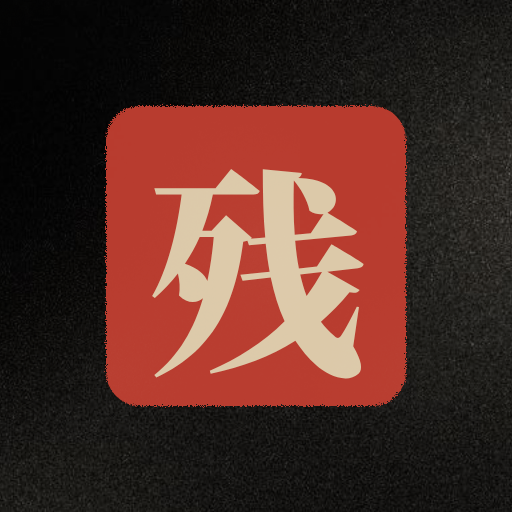
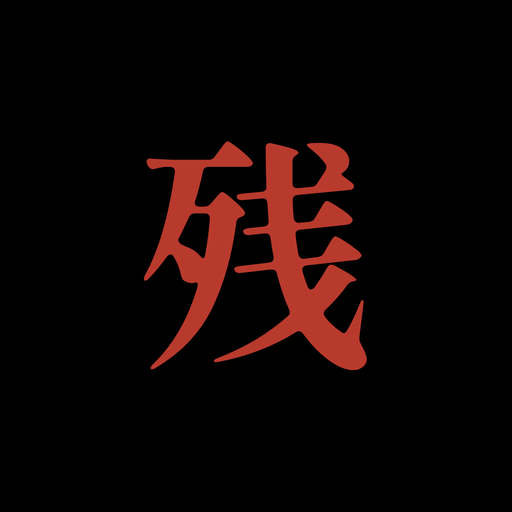
cambios

diff --git a/index.html b/index.html
@@ -11,8 +11,8 @@
 <meta name="referrer" content="no-referrer">
 <meta http-equiv="Content-Security-Policy" content="default-src 'self'; script-src 'self' 'unsafe-inline'; style-src 'self' 'unsafe-inline'; font-src 'self' data:; img-src 'self' data: blob:; connect-src 'self' https://script.google.com https://script.googleusercontent.com; worker-src 'self'; manifest-src 'self'; base-uri 'none'; form-action 'none'; object-src 'none'">
 <link rel="manifest" href="manifest.json">
-<link rel="apple-touch-icon" href="icono.png">
-<link rel="icon" href="icono.png">
+<link rel="apple-touch-icon" href="icono.png?v=2">
+<link rel="icon" href="icono.png?v=2">
 <title>Finanzas de Jaime</title>
 <script>try { var p = localStorage.getItem('fj_paleta'); if (['sumi','ai','matcha','sakura','momiji','neon'].indexOf(p) >= 0) document.documentElement.dataset.paleta = p; } catch (e) {}</script>
 <style>
@@ -2468,7 +2468,7 @@ html.discreto :is(#pvVal, #pvSub b) { filter: blur(7px); }
   // ---------- Actualización automática ----------
   // El ícono de inicio del iPhone guarda su propia copia de la página. Al abrir la app se compara esta versión
   // con la publicada en GitHub y, si cambió, se descarga la nueva y se recarga una sola vez.
-  const VERSION = '2026-11-03.33';
+  const VERSION = '2026-11-03.34';
   $('ver').textContent = 'Versión ' + VERSION;
   async function revisarVersion() {
     try {
